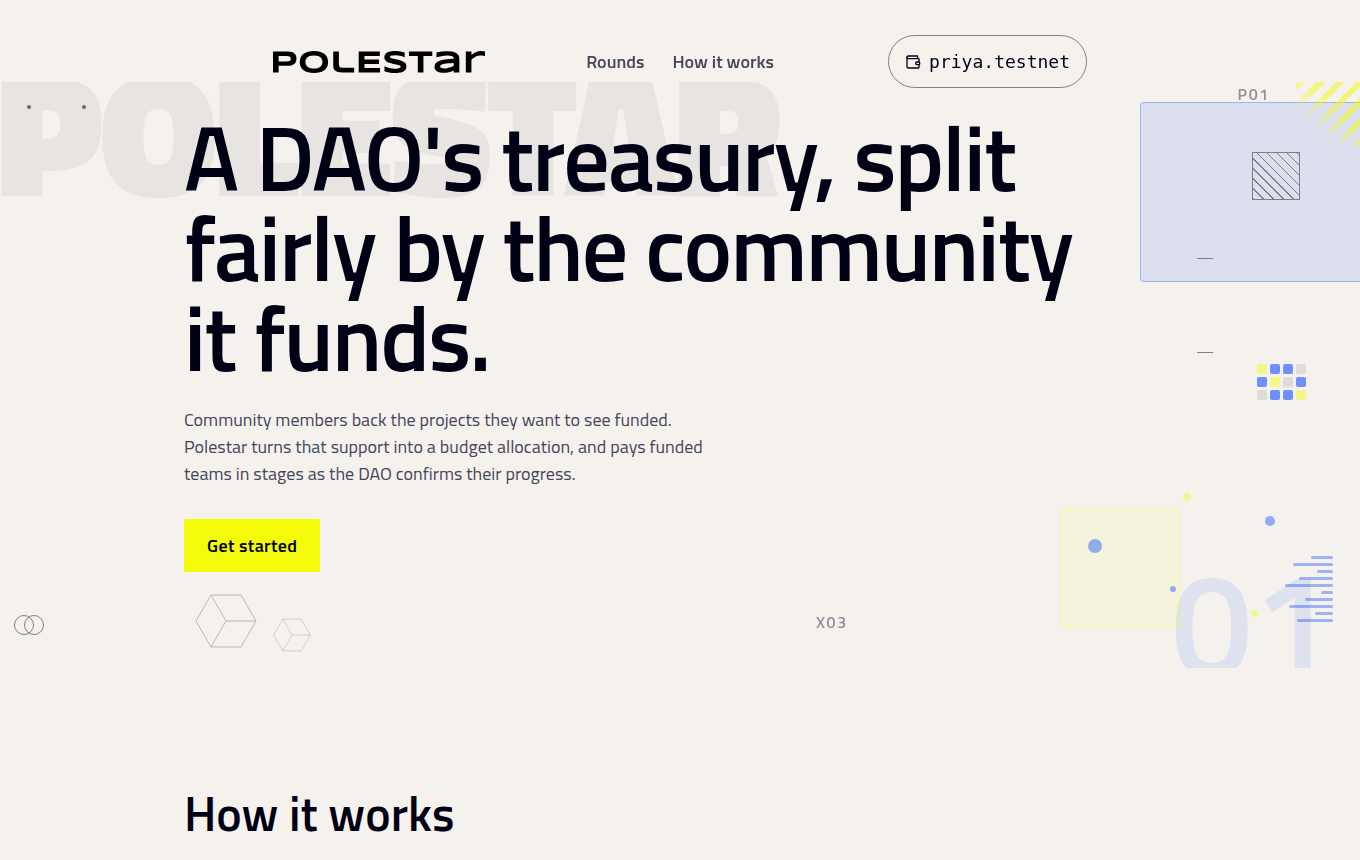
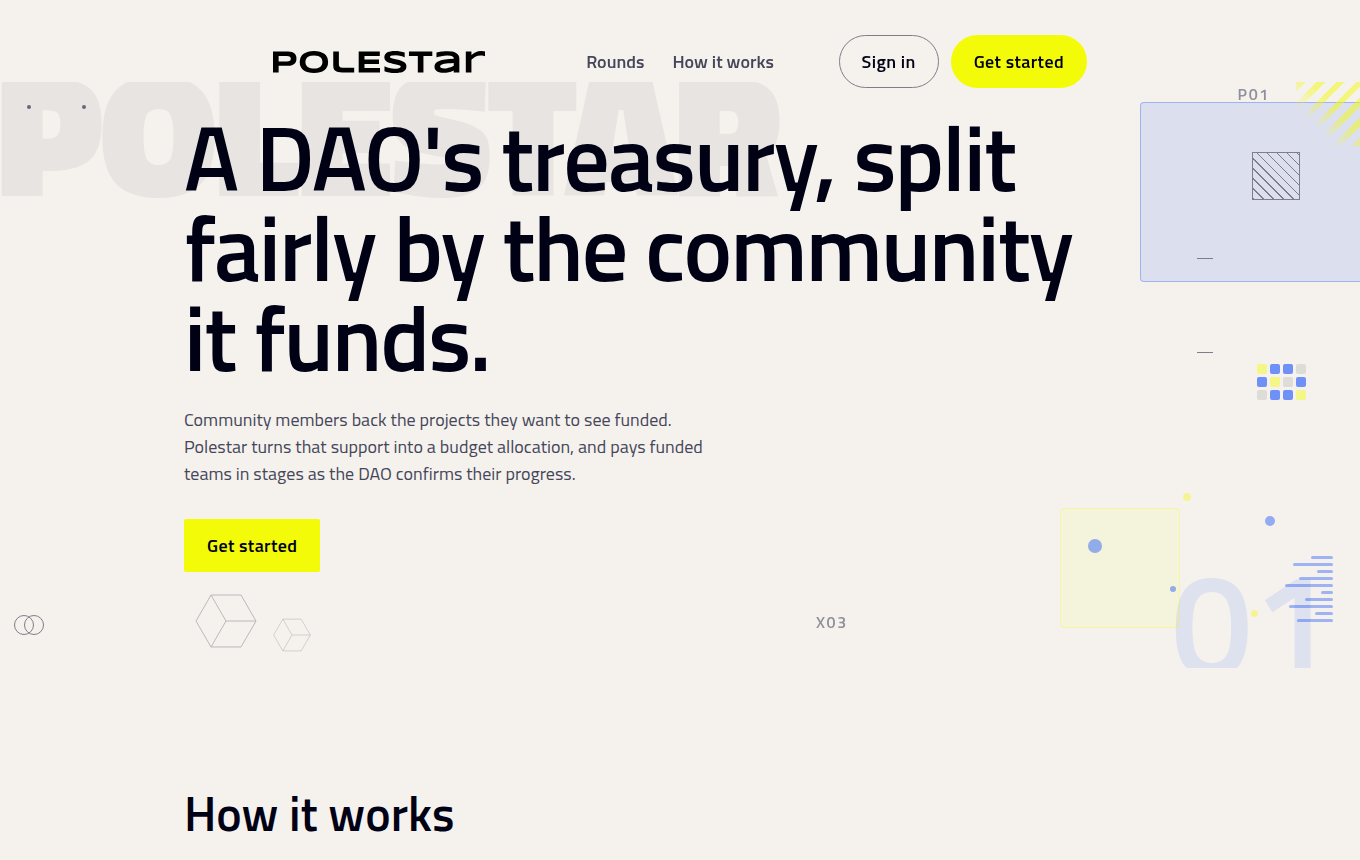
Update the documentation and screenshots for the new navigation and the current deployment

Changed region(s): [[0.6176, 0.0302, 0.8029, 0.1209]]

diff --git a/docs/resources/deployments.md b/docs/resources/deployments.md
@@ -1,6 +1,6 @@
 # Deployments
 
-_What's deployed, and how it's changed_
+_What's deployed, and where to find it_
 
 ## The public deployment
 
@@ -11,19 +11,9 @@ _What's deployed, and how it's changed_
 | **RPC** | `https://test.rpc.fastnear.com` |
 | **SDK** | [`@ezeonlabs/polestar`](https://www.npmjs.com/package/@ezeonlabs/polestar) |
 
-**Current build:** code hash `2w8CDHRv7rnm5hYbagqJehNb6UzYoTymqqdNo9ZfyBoC` ([deploy transaction](https://testnet.nearblocks.io/txns/5WK2DqcLBZdr4a5qkZ3SEUSvGiiJKSBN557zxSxTPnrX)), with returning unspent budget, members-only rounds and batched counting.
+**Current build:** code hash `2w8CDHRv7rnm5hYbagqJehNb6UzYoTymqqdNo9ZfyBoC` ([deploy transaction](https://testnet.nearblocks.io/txns/A5VCitHX714trYVpr8Dddow29KiB1k3ckDUpPyNdz99)), initialized with `dao.polestar-dev.testnet` as its DAO.
 
 **The DAO's policy** is SputnikDAO's default: a one-member council, approvals at half the council, anyone may submit a proposal, and a 1 NEAR bond.
-
-## History
-
-| Date | Change |
-| :-- | :-- |
-| 2026-11-03 | Counting made resumable across transactions. This changed how rounds are stored, and rounds 0 and 1 can no longer be read. |
-| 2026-11-10 | Project amounts accepted as strings; `get_first_seen` added. |
-| 2026-11-11 | `return_remaining`, members-only rounds, `process_allocation_steps`. New data stored under new prefixes; existing rounds unchanged. |
-
-Rounds 0 and 1 make `get_round` fail with a deserialization error. The app and SDK skip them.
 
 ## Next steps
 

diff --git a/docs/using/index.md b/docs/using/index.md
@@ -10,6 +10,10 @@ Everything in Polestar happens in a **round**: one budget, the projects proposed
 
 ![The rounds list](../images/rounds.png)
 
+## Getting around
+
+The header has the two places you'll use most: **Rounds**, for every round and its projects and results, and **Proposals**, where the council funds rounds and pays milestones. Once you've signed in, the Polestar logo takes you to **Rounds** too.
+
 ## A round's stages
 
 A round moves through four stages, always in this order:
@@ -34,7 +38,7 @@ The panel on the right of every round page, **Where this round is**, shows the c
 
 ## Signing in
 
-**Sign in** in the header opens the wallet choice. Polestar never holds your keys; every action is a transaction your wallet shows you before you sign. Each transaction screen in the app shows the deposit, if any, and a **What you'll sign** section with the exact call.
+**Sign in** in the header opens the wallet choice. Polestar never holds your keys; every action is a transaction your wallet shows you before you sign. Each transaction screen in the app shows what the action does and the deposit, if any, before your wallet opens.
 
 ## Next steps
 

diff --git a/docs/building/sdk.md b/docs/building/sdk.md
@@ -18,9 +18,10 @@ const polestar = new PolestarClient({
   daoId: "dao.polestar-dev.testnet",
 });
 
-const round = await polestar.getRound(3);
-const projects = await polestar.getProjects(3);
-const result = await polestar.getAllocationResult(3);
+const roundId = 0;
+const round = await polestar.getRound(roundId);
+const projects = await polestar.getProjects(roundId);
+const result = await polestar.getAllocationResult(roundId);
 
 console.log(round?.phase, formatNearAmount(round!.config.budget));
 ```
@@ -48,7 +49,7 @@ const { wallet } = await connector.getConnectedWallet();
 const writer = polestar.withSigner({
   signAndSendTransaction: (tx) => wallet.signAndSendTransaction(tx as never),
 });
-await writer.submitBallot(3, [0, 2]);
+await writer.submitBallot(roundId, [0, 2]);
 ```
 
 **On a server**, use a near-api-js account:

diff --git a/docs/internals/counting-engine.md b/docs/internals/counting-engine.md
@@ -66,7 +66,6 @@ A round can have at most 50 projects, which bounds the work any count needs. The
 | **Reference implementation** | An independent Python version (`crates/allocate/tests/fixtures/mes_reference.py`, exact fractions) is run on a 100-voter, 6-project scenario; the Rust engine must match it decision for decision. |
 | **Property tests** | Random rounds: budget conservation, no unfunded project fitting in what's left, voter shares never going negative, independence from ballot order, and batched counting matching single steps. |
 | **Sandbox tests** | The compiled contract, in a local NEAR node, counts a 6-project round in one transaction and in six, with identical results. |
-| **Live rounds** | Rounds counted on the public deployment were checked against the reference before and after. |
 
 ## Next steps
 

diff --git a/docs/resources/known-issues.md b/docs/resources/known-issues.md
@@ -20,7 +20,7 @@ Money for a milestone the council never approves stays in the contract, with no 
 
 ## Some failures need a redeploy
 
-A round whose count overflowed (`ERR_RATIONAL_OVERFLOW`) couldn't finish counting until a new build could count it, and its budget would wait in the contract. Rounds stored before a breaking storage change can become unreadable, as rounds 0 and 1 on the public deployment did.
+A round whose count overflowed (`ERR_RATIONAL_OVERFLOW`) couldn't finish counting until a new build could count it, and its budget would wait in the contract. A change to how rounds are stored would also need a migration, or existing rounds would become unreadable; see [Storage and upgrades](../internals/storage-and-upgrades.md).
 
 ## Views return amounts as plain JSON numbers
 

diff --git a/docs/building/sputnikdao-proposals.md b/docs/building/sputnikdao-proposals.md
@@ -57,8 +57,8 @@ The `args` payload for that example, before encoding:
 | Operation | `method_name` | `args` before encoding | `deposit` | Gas |
 | :-- | :-- | :-- | :-- | :-- |
 | Fund a round | `fund_round` | as above; leave out `voter_namespace` for an open round | the budget | 100 Tgas |
-| Pay a milestone | `attest_milestone` | `{"round_id":3,"project_id":1,"milestone_index":0}` | `0` | 150 Tgas |
-| Return unspent budget | `return_remaining` | `{"round_id":2}` | `0` | 50 Tgas |
+| Pay a milestone | `attest_milestone` | `{"round_id":0,"project_id":1,"milestone_index":0}` | `0` | 150 Tgas |
+| Return unspent budget | `return_remaining` | `{"round_id":0}` | `0` | 50 Tgas |
 
 **Note**
 

diff --git a/docs/building/keeper-bot.md b/docs/building/keeper-bot.md
@@ -24,7 +24,7 @@ node examples/keeper.mjs
 Without flags it only reports what it would do:
 
 ```
-2026-11-11T04:38:22.653Z  nothing to do across 4 round(s) at block 277166935
+2026-11-11T13:10:22.503Z  nothing to do across 0 round(s) at block 277219773
 ```
 
 To act, give it an account whose key the NEAR CLI has stored in `~/.near-credentials/testnet/`:

diff --git a/docs/internals/storage-and-upgrades.md b/docs/internals/storage-and-upgrades.md
@@ -26,4 +26,4 @@ Each upgrade is checked before it's deployed. The sandbox test `return_remaining
 
 ## Next steps
 
-- [Deployments](../resources/deployments.md) — What's deployed now, and the upgrade history
+- [Deployments](../resources/deployments.md) — What's deployed now
